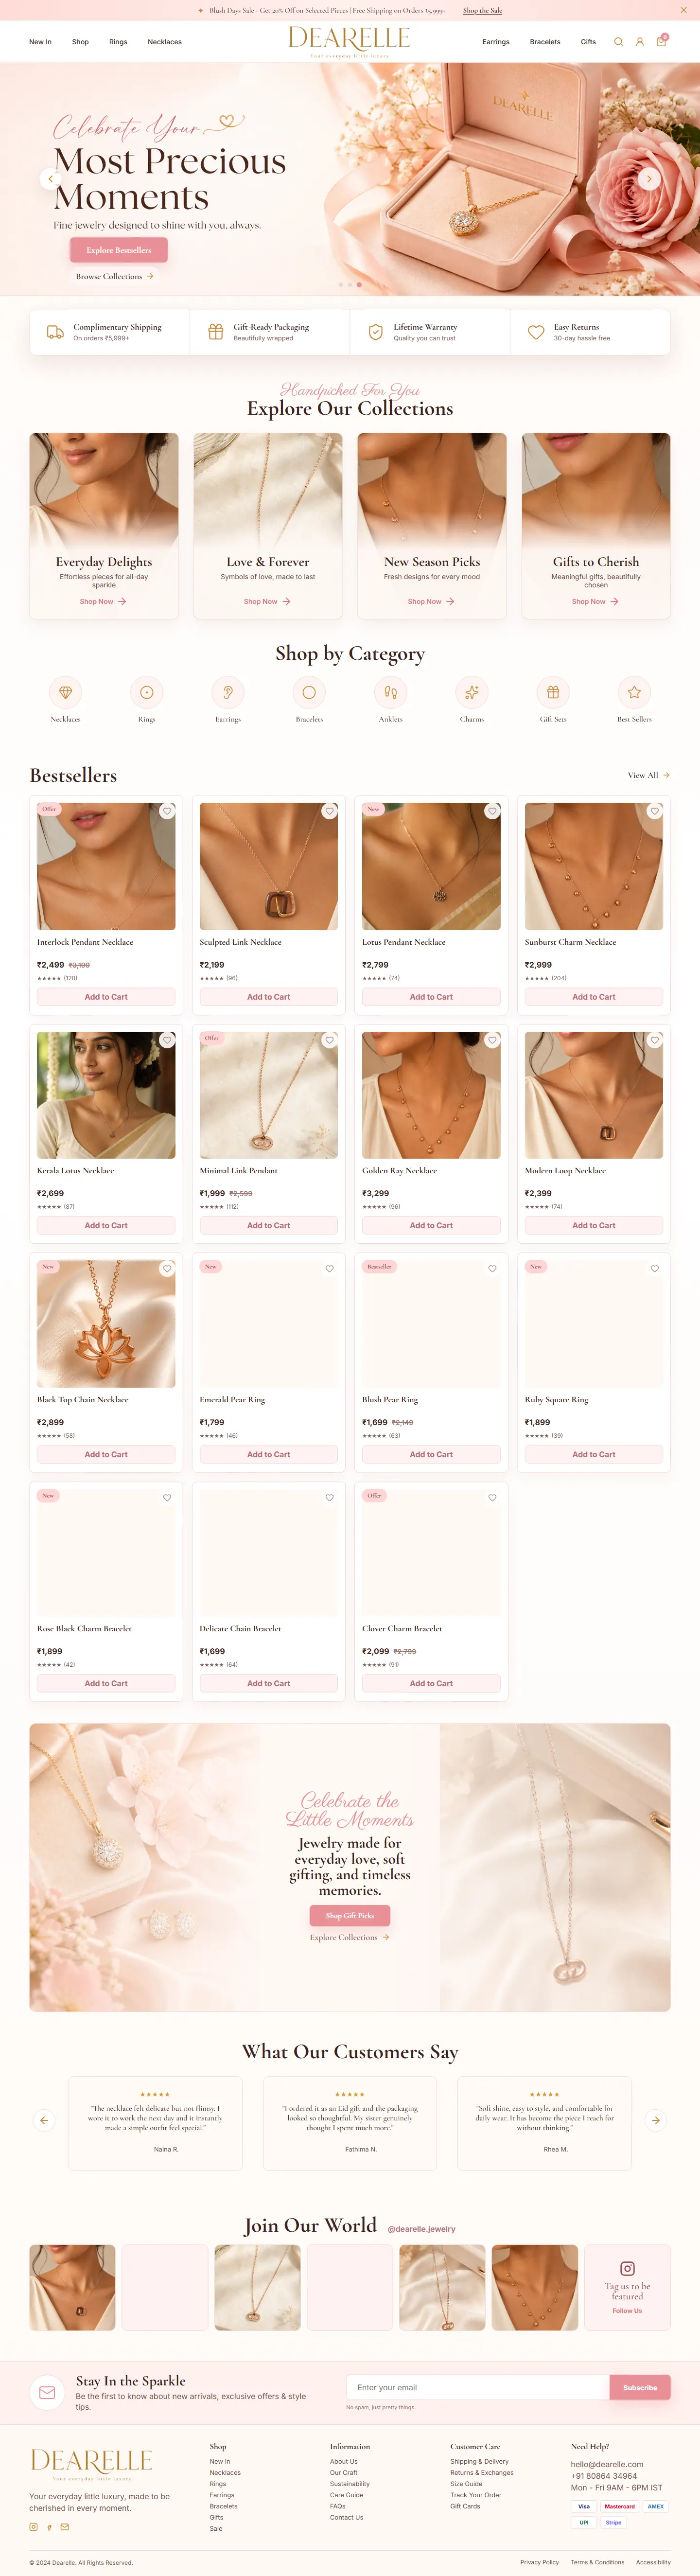
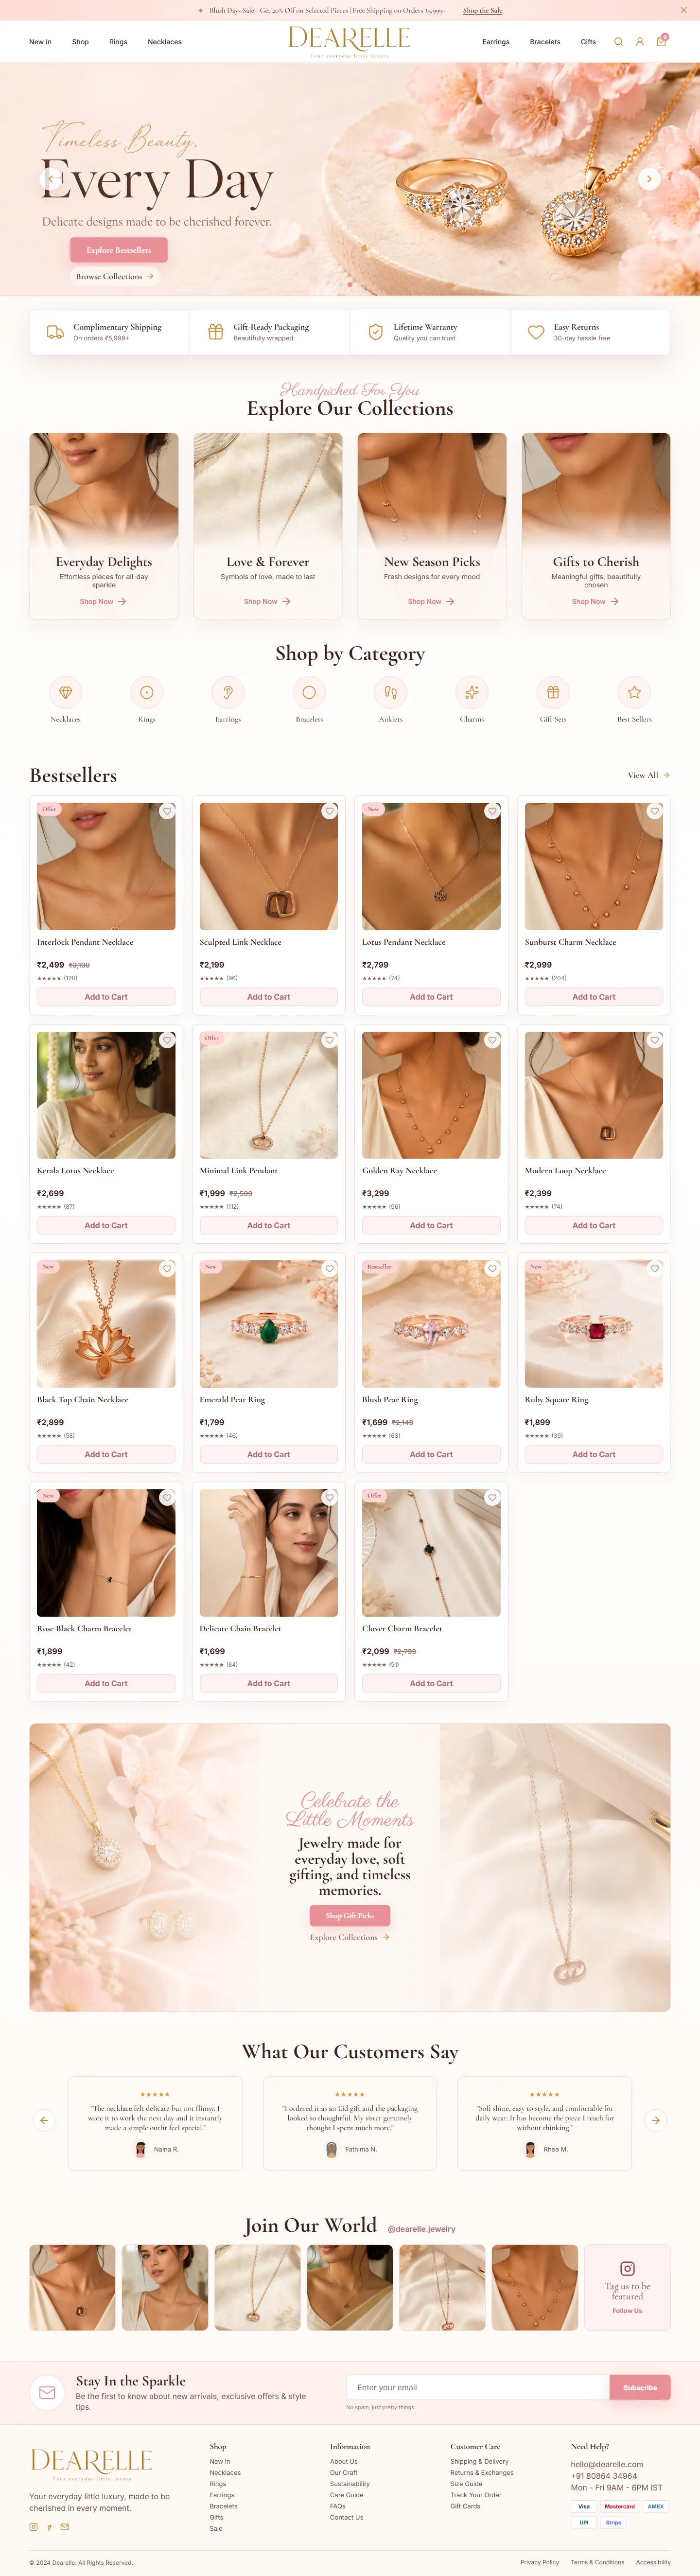
Fix lazy images in Dearelle preview

diff --git a/scripts/capture-web-portfolio-screenshots.js b/scripts/capture-web-portfolio-screenshots.js
@@ -187,16 +187,54 @@ async function preparePageForCapture(cdp) {
   })();`);
 }
 
+async function waitForImagesNearViewport(cdp, timeout = 8000) {
+  await evaluate(cdp, `(() => {
+    const images = [...document.images].filter((image) => {
+      const rect = image.getBoundingClientRect();
+      return rect.bottom >= -900 && rect.top <= window.innerHeight + 900;
+    });
+
+    return Promise.race([
+      Promise.all(images.map(async (image) => {
+        const lazySource =
+          image.dataset.src ||
+          image.dataset.lazySrc ||
+          image.dataset.original ||
+          image.getAttribute("data-lazy-src");
+        if (lazySource && (!image.currentSrc || image.currentSrc.startsWith("data:"))) {
+          image.src = lazySource;
+        }
+        image.loading = "eager";
+        if (!image.complete) {
+          await new Promise((resolve) => {
+            image.addEventListener("load", resolve, { once: true });
+            image.addEventListener("error", resolve, { once: true });
+            setTimeout(resolve, ${timeout});
+          });
+        }
+        if (image.complete && image.naturalWidth > 0 && image.decode) {
+          try {
+            await image.decode();
+          } catch {}
+        }
+      })),
+      new Promise((resolve) => setTimeout(resolve, ${timeout}))
+    ]);
+  })()`);
+}
+
 async function triggerLazyLoading(cdp) {
   const heightResult = await evaluate(cdp, "Math.max(document.body.scrollHeight, document.documentElement.scrollHeight)");
   const totalHeight = Math.min(Math.max(Math.ceil(heightResult.result.value || 900), 900), 12000);
 
-  for (let y = 0; y < totalHeight; y += 700) {
+  for (let y = 0; y < totalHeight; y += 600) {
     await evaluate(cdp, `window.scrollTo(0, ${y})`, false);
-    await delay(250);
+    await delay(350);
+    await waitForImagesNearViewport(cdp);
   }
   await evaluate(cdp, "window.scrollTo(0, 0)", false);
-  await delay(800);
+  await waitForImagesNearViewport(cdp);
+  await delay(1200);
   return totalHeight;
 }
 